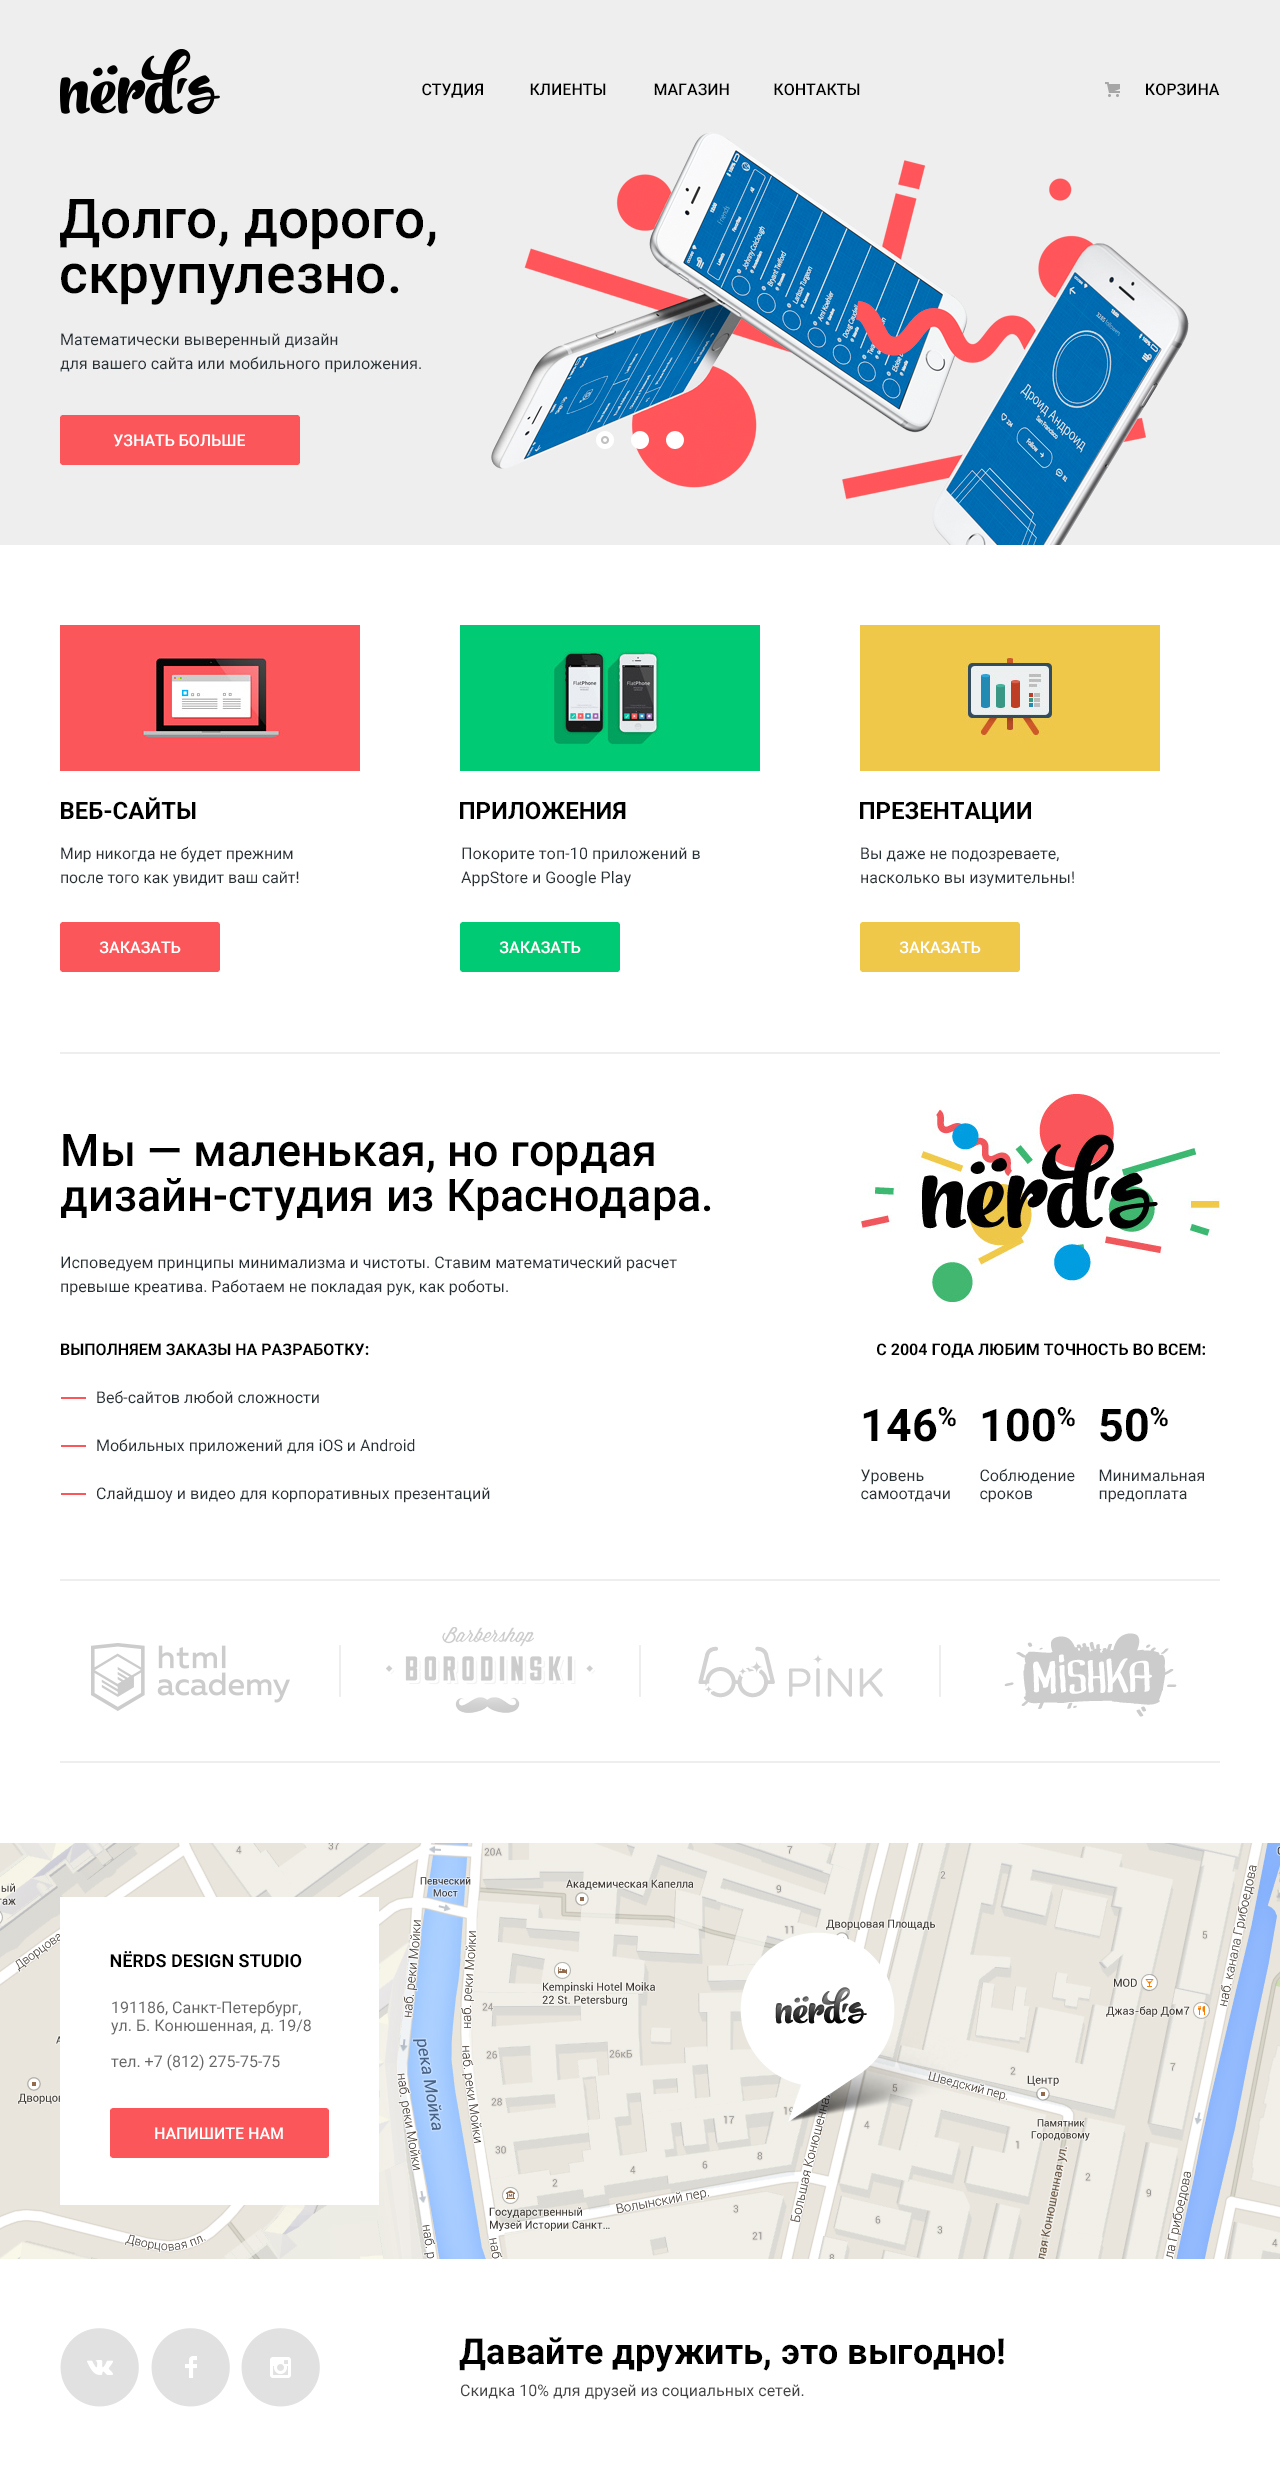
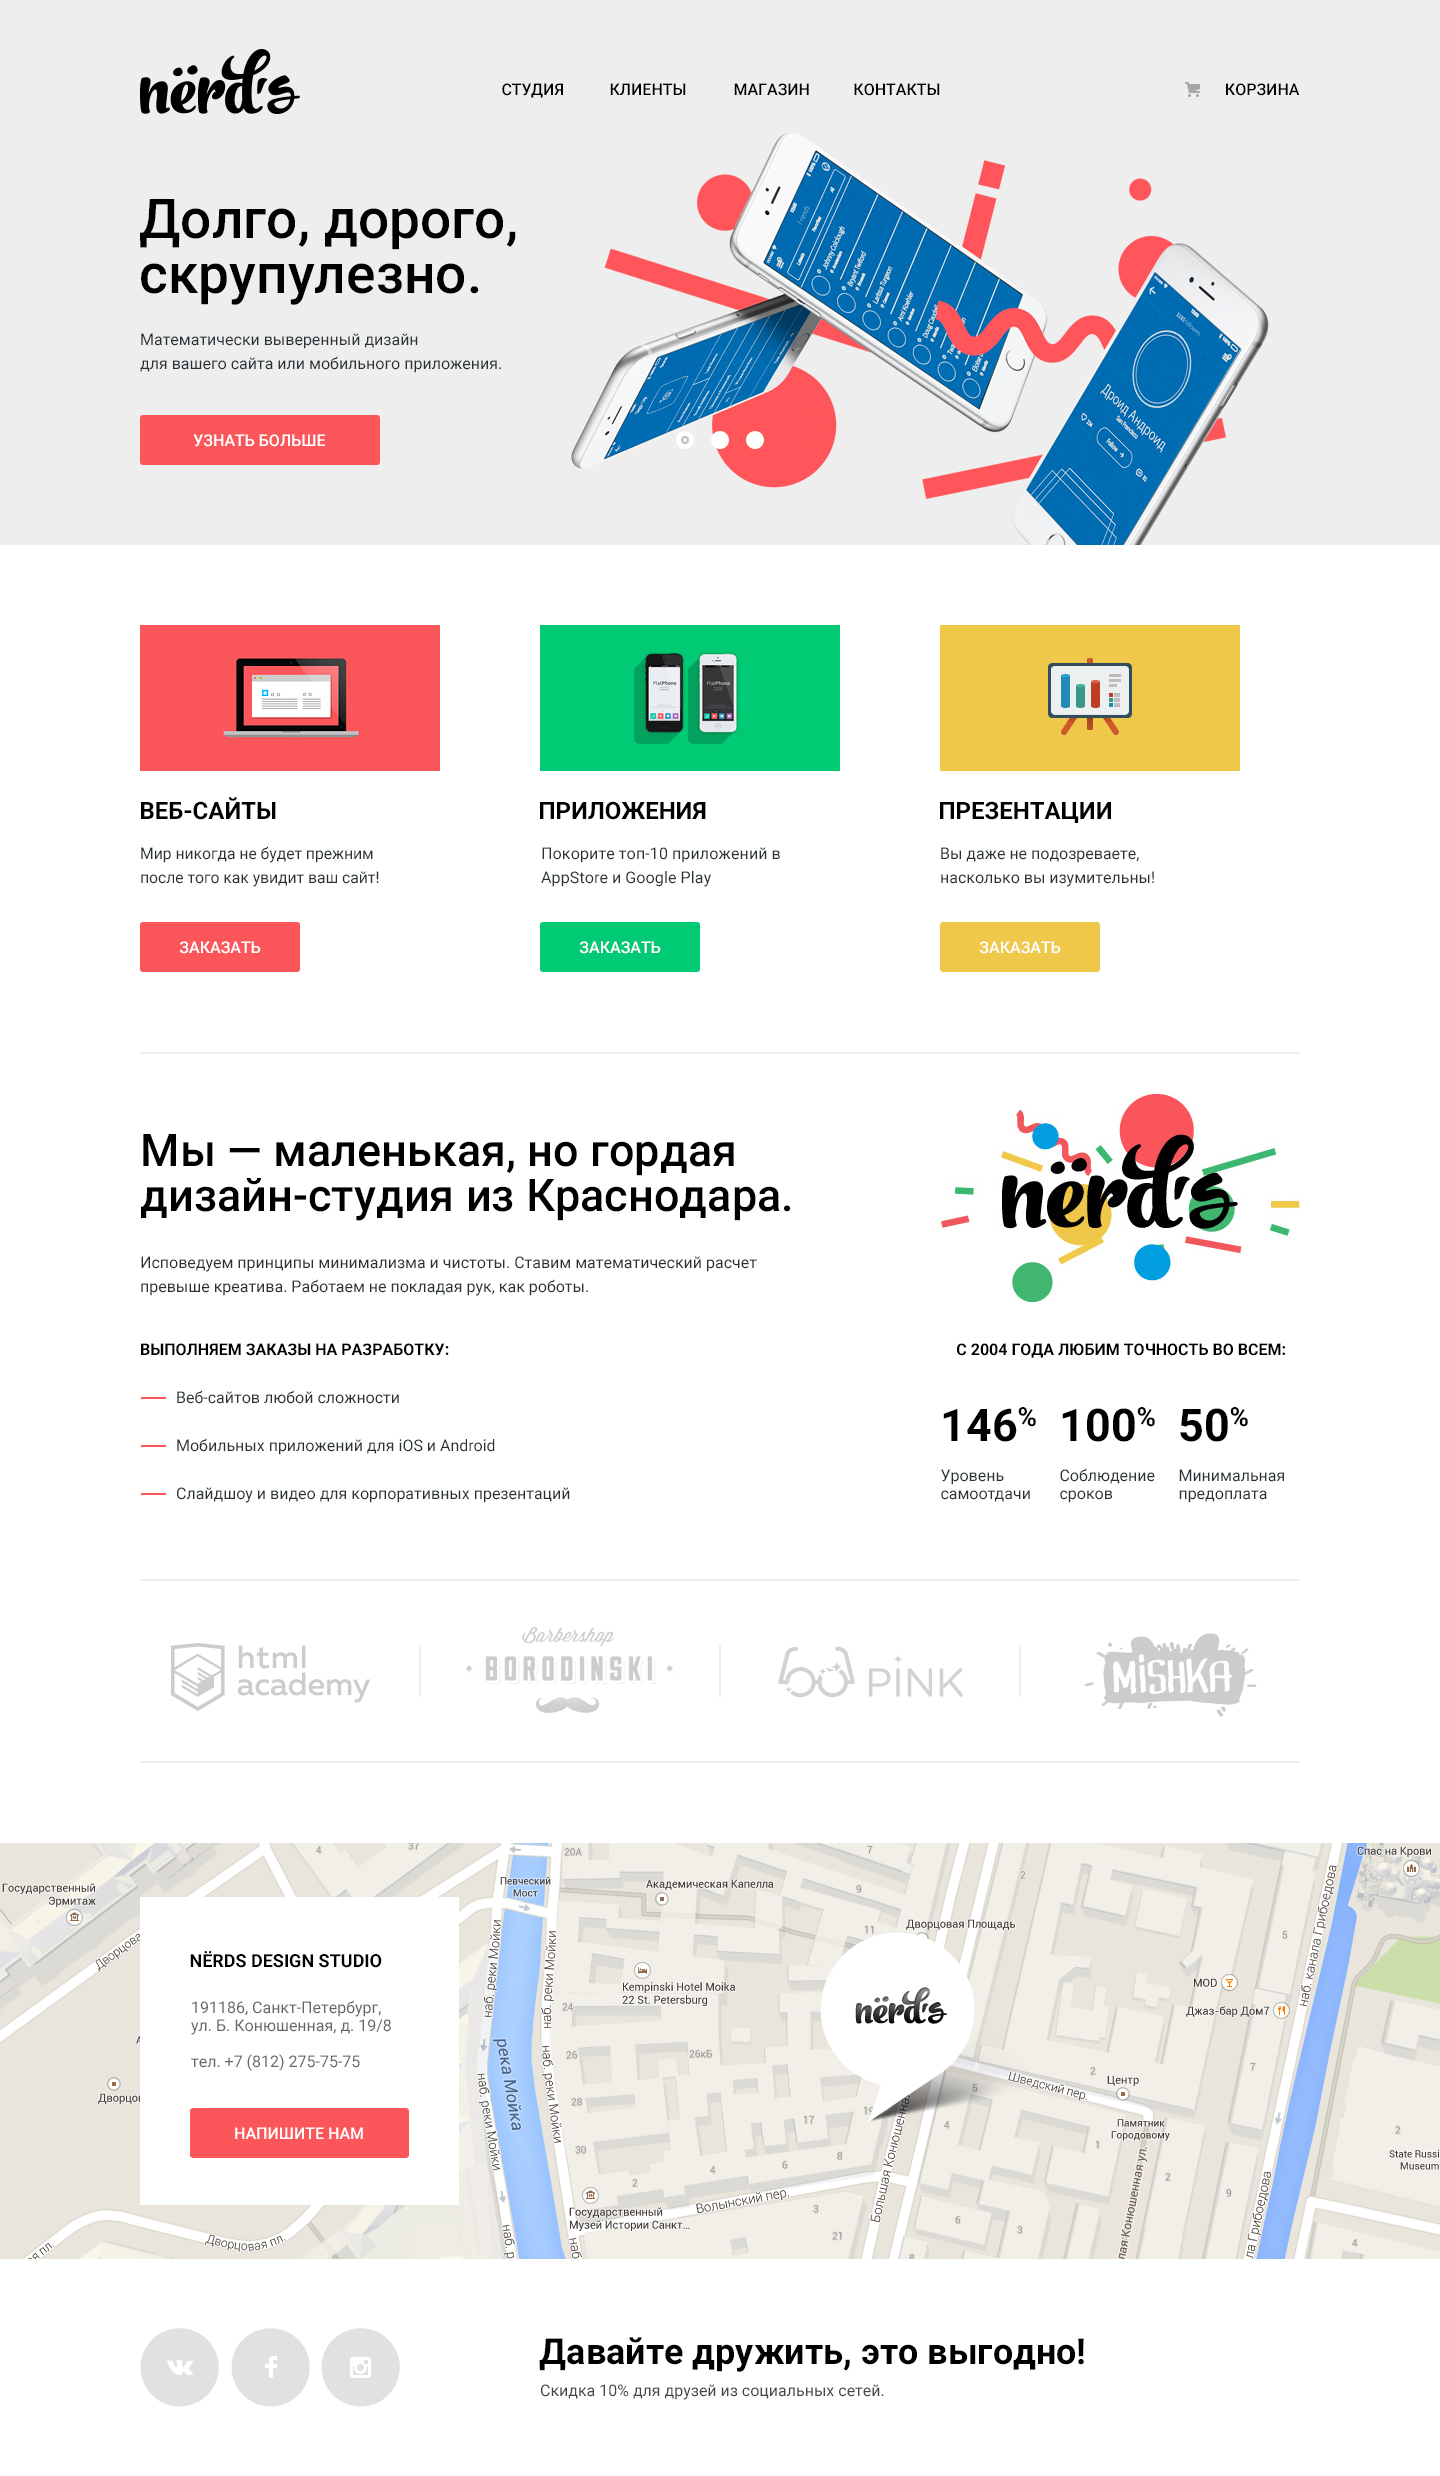
Изменения

diff --git a/css/style.css b/css/style.css
@@ -416,22 +416,18 @@ a {
 
 /* ------- Сеточные стили ------ */
 
-html,
-body {
-	min-width: 1200px;
-	min-height: 2470px;
-}
 
-body {
-	/* Временно для сетки */
-	background-image: url("../img/nerds-index-grid.jpg");
-	background-size: 1280px auto;
-	background-repeat: no-repeat;
-}
 
 .main-header {
 	
 	/* Временно для сетки */
 	min-height: 545px;
+	outline: 1px solid red;
+}
+
+.main-navigation {
+	/* Временно для сетки */
+	min-height: 545px;
 	background-color: transparent;
+	outline: 1px solid #000;
 }

diff --git a/index.html b/index.html
@@ -9,6 +9,7 @@
 	</head>
 	<body>
 		<header class="main-header">
+
 		</header>
 	</body>
 </html>
